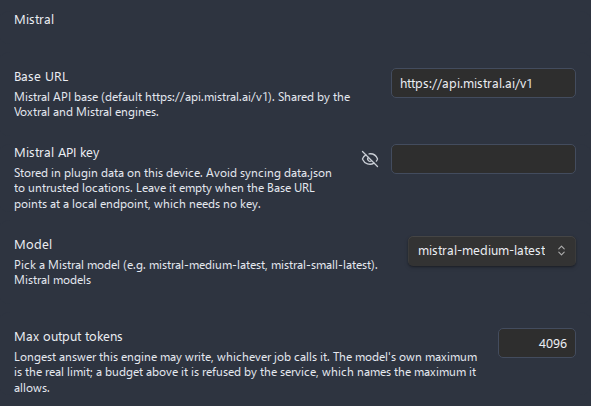
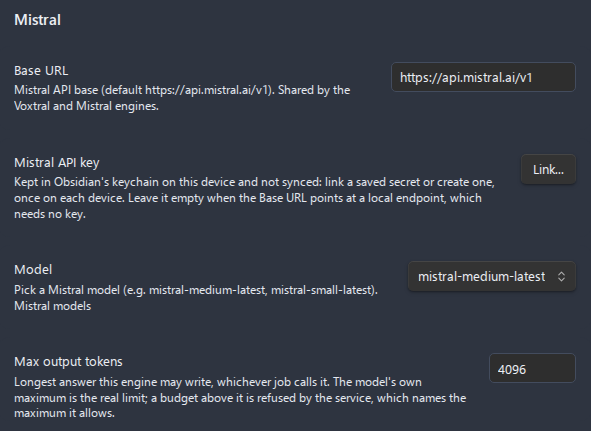
docs: re-render the engine pages with the keychain picker
The API key row of every cloud engine is now Obsidian's own keychain
picker, a Link button with no password field and no reveal toggle, and
its description says the key is kept in the keychain instead of
data.json. The eight figures of those pages still showed the old field
and the old text, so each is rendered again from the changed code under
the name the pages already use.

The settings mock stands in for SecretComponent with markup of its own,
so the dump replaced it with the markup Obsidian 1.14.4 builds: a hidden
encryption warning, an empty value holder and a Link... button. The
model catalogue, a sub-page in the app, is left out as before. The alt
text names the keychain picker.

diff --git a/docs/settings-reference.md b/docs/settings-reference.md
@@ -215,7 +215,7 @@ Each **API key** row links a secret in Obsidian's keychain rather than holding t
 
 One of the pages under **Engines**, listed whether or not it is the engine transcription currently runs on. Works with OpenAI and any compatible host (for example Groq) by setting the base URL, key, and model. The 25 MB per-request limit is enforced by the API; files at or under it are uploaded in their original container, while larger files are resampled to 16 kHz mono, split into upload-sized WAV chunks, and stitched onto one timeline. No diarization. See [OpenAI Whisper API key](use-cases/openai-whisper-api-key.md) and [Groq Whisper setup](use-cases/groq-whisper-setup.md).
 
-![Whisper API engine settings with the base URL, API key, model and upload chunk size rows](images/settings-engine-whisper-api.png)
+![Whisper API engine settings with the base URL, API key keychain picker, model and upload chunk size rows](images/settings-engine-whisper-api.png)
 
 | Setting               | What it does                                                                                                                                                                                                                        | Options / range                                                                   | Default                     |
 | --------------------- | ----------------------------------------------------------------------------------------------------------------------------------------------------------------------------------------------------------------------------------- | --------------------------------------------------------------------------------- | --------------------------- |
@@ -229,7 +229,7 @@ One of the pages under **Engines**, listed whether or not it is the engine trans
 
 One of the pages under **Engines**, listed whether or not it is the engine transcription currently runs on. Deepgram's official pre-recorded API. Files up to 2 GB are sent whole, so diarization keeps consistent speaker numbering across the entire recording. A free account includes a starter credit, then pay-as-you-go. See [Deepgram API key](use-cases/deepgram-api-key.md).
 
-![Deepgram engine settings with the base URL, API key and model rows](images/settings-engine-deepgram.png)
+![Deepgram engine settings with the base URL, API key keychain picker and model rows](images/settings-engine-deepgram.png)
 
 | Setting              | What it does                                                                                                                                                                                                                        | Options / range                                                 | Default                       |
 | -------------------- | ----------------------------------------------------------------------------------------------------------------------------------------------------------------------------------------------------------------------------------- | --------------------------------------------------------------- | ----------------------------- |
@@ -242,7 +242,7 @@ One of the pages under **Engines**, listed whether or not it is the engine trans
 
 One of the pages under **Engines**, listed whether or not it is the engine transcription currently runs on, and also the page the post-processing prompts are configured on when they run through Gemini. Google's multimodal `generateContent` plus the File API. Files up to 2 GB are uploaded whole. Containers Gemini does not accept (for example `webm`, `m4a`) are decoded to 16 kHz mono WAV first. Recordings longer than 15 minutes are split into parts and stitched; a diarized split resets speaker numbering and surfaces a warning. See [Gemini API key](use-cases/gemini-api-key.md).
 
-![Google Gemini engine settings with the base URL, API key, model and max output tokens rows](images/settings-llm-gemini-provider.png)
+![Google Gemini engine settings with the base URL, API key keychain picker, model and max output tokens rows](images/settings-llm-gemini-provider.png)
 
 | Setting                   | What it does                                                                                                                                                                                                                        | Options / range                                                                                           | Default                                     |
 | ------------------------- | ----------------------------------------------------------------------------------------------------------------------------------------------------------------------------------------------------------------------------------- | --------------------------------------------------------------------------------------------------------- | ------------------------------------------- |
@@ -256,7 +256,7 @@ One of the pages under **Engines**, listed whether or not it is the engine trans
 
 One of the pages under **Engines**, listed whether or not it is the engine transcription currently runs on. Mistral's batch transcription endpoint. A recording of up to three hours goes in one request, so diarization keeps consistent speaker numbering across the whole file, and files are sent whole up to 1 GB. MP3, WAV, M4A, FLAC, and OGG are uploaded untouched, while any other container, including the `webm` this plugin records by default, is decoded to 16 kHz mono WAV first and uploaded under a matching name. A recording past three hours is refused before it is uploaded whenever the plugin decodes it, which is how it learns the length. The language hint is never sent, because Mistral refuses it alongside the timestamp granularity that makes the response carry timed segments, and only the segment level is asked for, because the response carries no timed segments without it and the endpoint refuses a request naming two levels at once.
 
-![Mistral Voxtral engine settings with the base URL, API key and model rows](images/settings-engine-voxtral.png)
+![Mistral Voxtral engine settings with the base URL, API key keychain picker and model rows](images/settings-engine-voxtral.png)
 
 | Setting             | What it does                                                                                                                                                                                                                        | Options / range                               | Default                     |
 | ------------------- | ----------------------------------------------------------------------------------------------------------------------------------------------------------------------------------------------------------------------------------- | --------------------------------------------- | --------------------------- |
@@ -269,7 +269,7 @@ One of the pages under **Engines**, listed whether or not it is the engine trans
 
 The page the post-processing prompts are configured on when they run through Mistral. It holds no transcription fields of its own: the speech models live on the **Mistral Voxtral** page above, and the two pages share one endpoint and one key because they are two catalogues over one account.
 
-![Mistral engine settings with the base URL, API key, model and max output tokens rows](images/settings-engine-mistral.png)
+![Mistral engine settings with the base URL, API key keychain picker, model and max output tokens rows](images/settings-engine-mistral.png)
 
 | Setting               | What it does                                                                                                                                                                                                                        | Options / range                                                                                 | Default                     |
 | --------------------- | ----------------------------------------------------------------------------------------------------------------------------------------------------------------------------------------------------------------------------------- | ----------------------------------------------------------------------------------------------- | --------------------------- |
@@ -283,7 +283,7 @@ The page the post-processing prompts are configured on when they run through Mis
 
 The page the post-processing prompts, the chapter titles, and the two-pass context agents are configured on when they run through DeepSeek. DeepSeek does not transcribe audio, so the page backs a chat catalogue only and keeps a key of its own, apart from every transcription account. The text of the transcript is sent to DeepSeek's servers.
 
-![DeepSeek engine settings with the base URL, API key, model and max output tokens rows](images/settings-engine-deepseek.png)
+![DeepSeek engine settings with the base URL, API key keychain picker, model and max output tokens rows](images/settings-engine-deepseek.png)
 
 | Setting               | What it does                                                                                                                                                                                                                        | Options / range                                             | Default                    |
 | --------------------- | ----------------------------------------------------------------------------------------------------------------------------------------------------------------------------------------------------------------------------------- | ----------------------------------------------------------- | -------------------------- |

diff --git a/docs/transcription.md b/docs/transcription.md
@@ -102,7 +102,7 @@ Behavior and limits:
 
 Getting a key: [OpenAI Whisper API key](use-cases/openai-whisper-api-key.md) · [Groq Whisper setup](use-cases/groq-whisper-setup.md). The **Whisper API models** link in the **Model** row's description points at the [OpenAI speech-to-text guide](https://developers.openai.com/api/docs/guides/speech-to-text).
 
-![The Whisper API engine page under Engines, with the Base URL, OpenAI API key, Model and Upload chunk size rows](images/settings-engine-whisper-api.png)
+![The Whisper API engine page under Engines, with the Base URL, OpenAI API key keychain picker, Model and Upload chunk size rows](images/settings-engine-whisper-api.png)
 
 ### Deepgram
 
@@ -126,7 +126,7 @@ Behavior and limits:
 
 Getting a key: [Deepgram API key](use-cases/deepgram-api-key.md). The **Deepgram model list** link in the **Model** row's description points at the [Deepgram model list](https://developers.deepgram.com/docs/model).
 
-![The Deepgram engine page under Engines, with the Base URL, Deepgram API key and Model rows](images/settings-engine-deepgram.png)
+![The Deepgram engine page under Engines, with the Base URL, Deepgram API key keychain picker and Model rows](images/settings-engine-deepgram.png)
 
 ### Google Gemini
 
@@ -149,7 +149,7 @@ Behavior and limits:
 
 Getting a key: [Gemini API key](use-cases/gemini-api-key.md). The **Gemini model list** link in the **Model** row's description points at the [Gemini model list](https://ai.google.dev/gemini-api/docs/models).
 
-![The Google Gemini engine page under Engines, with the Base URL, Google Gemini API key, Model and Max output tokens rows](images/settings-llm-gemini-provider.png)
+![The Google Gemini engine page under Engines, with the Base URL, Google Gemini API key keychain picker, Model and Max output tokens rows](images/settings-llm-gemini-provider.png)
 
 ### Mistral Voxtral
 

diff --git a/docs/use-cases/gemini-api-key.md b/docs/use-cases/gemini-api-key.md
@@ -32,7 +32,7 @@ Gemini reads the audio itself rather than running a dedicated speech model, whic
 | Cost                    | Free tier in AI Studio, then paid                                  |
 | Reused for              | Gemini [LLM post-processing](../llm-post-processing.md) (same key) |
 
-![The Google Gemini engine page under Engines, with the Base URL, Google Gemini API key, Model and Max output tokens rows](../images/settings-llm-gemini-provider.png)
+![The Google Gemini engine page under Engines, with the Base URL, Google Gemini API key keychain picker, Model and Max output tokens rows](../images/settings-llm-gemini-provider.png)
 
 ---
 
@@ -103,7 +103,7 @@ To enable it:
 4. Set its **Post-processing engine** to **Google Gemini**, which settles only which service does the work.
 5. Open **Engines** and then **Google Gemini** to confirm the **Base URL** reads `https://generativelanguage.googleapis.com`, pick a **Model** (default `gemini-3.8-flash`), and adjust **Max output tokens** if needed (default 4096, range 512-200000, with the model's own maximum as the real limit). One catalogue serves transcription and prompts alike, because Gemini answers both with the same family of ids.
 
-![Google Gemini engine settings with the base URL, API key, model and max output tokens rows](../images/settings-llm-gemini-provider.png)
+![Google Gemini engine settings with the base URL, API key keychain picker, model and max output tokens rows](../images/settings-llm-gemini-provider.png)
 
 See the [LLM post-processing guide](../llm-post-processing.md) for the full set of tasks, prompts, and provider options.
 

diff --git a/docs/llm-post-processing.md b/docs/llm-post-processing.md
@@ -162,9 +162,9 @@ The model list belongs to the provider rather than to the job, so each provider'
 
 DeepSeek serves the OpenAI chat format, and its catalogue holds two current models: `deepseek-flash` for everyday cleanup and summaries, and `deepseek-v4-pro` for harder prompts at about four times the price. The older ids `deepseek-chat`, `deepseek-reasoner`, and `deepseek-v4-flash` are retired by the vendor and are not seeded, because a request naming one fails. DeepSeek bills by time of day: the cost estimate uses the weekday peak rate (01:00-04:00 and 06:00-10:00 UTC), so a run outside those hours costs about half of what the estimate shows, and less again when the vendor's prompt cache is hit.
 
-![OpenAI engine settings with the base URL, API key, model picker and max output tokens rows](images/settings-llm-provider-model.png)
+![OpenAI engine settings with the base URL, API key keychain picker, model picker and max output tokens rows](images/settings-llm-provider-model.png)
 
-![Anthropic engine settings with the base URL, API key, model picker and max output tokens rows](images/settings-engine-anthropic.png)
+![Anthropic engine settings with the base URL, API key keychain picker, model picker and max output tokens rows](images/settings-engine-anthropic.png)
 
 ---
 

diff --git a/docs/use-cases/deepgram-api-key.md b/docs/use-cases/deepgram-api-key.md
@@ -61,7 +61,7 @@ Open **Settings > Advanced Audio Recorder** and scroll to the **Transcription** 
 | **Deepgram API key**     | The key copied from the Deepgram Console   | Engines > Deepgram | (empty)                       |
 | **Model**                | `nova-3` (or a named variant)              | Engines > Deepgram | `nova-3`                      |
 
-![The Deepgram engine page under Engines, with the Base URL, Deepgram API key and Model rows](../images/settings-engine-deepgram.png)
+![The Deepgram engine page under Engines, with the Base URL, Deepgram API key keychain picker and Model rows](../images/settings-engine-deepgram.png)
 
 The **Model** row is a dropdown over the seeded ids, and the **Model catalogue** entry below it is where you add an id Deepgram supports or drop one you do not use. A link to Deepgram's authoritative model catalogue - [https://developers.deepgram.com/docs/model](https://developers.deepgram.com/docs/model) - closes the **Model** row's description.
 

diff --git a/docs/use-cases/openai-whisper-api-key.md b/docs/use-cases/openai-whisper-api-key.md
@@ -73,7 +73,7 @@ Open **Settings > Advanced Audio Recorder** and scroll to the **Transcription** 
 7. Back under **Transcription**, set **Language** to `auto` to auto-detect, or to an ISO code (for example `en`, `ru`, `es`).
 8. (Optional) Choose where the transcript goes under **Transcript output > Destination**. The default is **Insert into note**.
 
-![The Whisper API engine page under Engines, with the Base URL, OpenAI API key, Model and Upload chunk size rows](../images/settings-engine-whisper-api.png)
+![The Whisper API engine page under Engines, with the Base URL, OpenAI API key keychain picker, Model and Upload chunk size rows](../images/settings-engine-whisper-api.png)
 
 > **Speaker diarization** stays greyed out and off for the Whisper API engine - OpenAI's Whisper does not return speaker labels. The speaker-related output controls (Include speakers, Merge speaker turns, Speaker format) are disabled to match.
 
